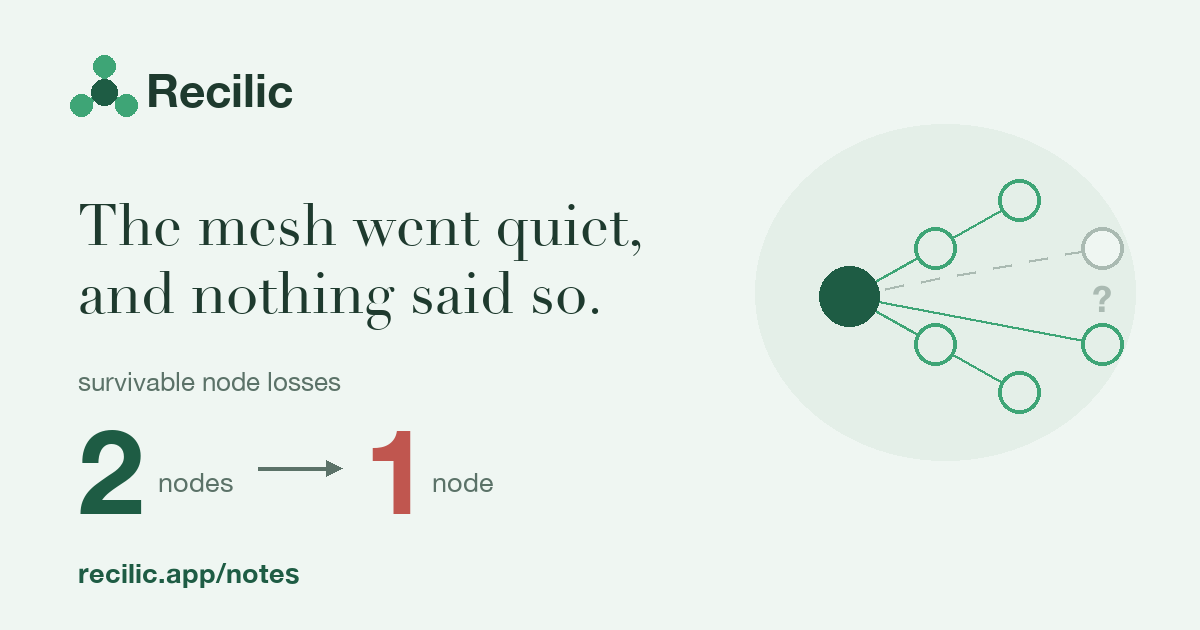
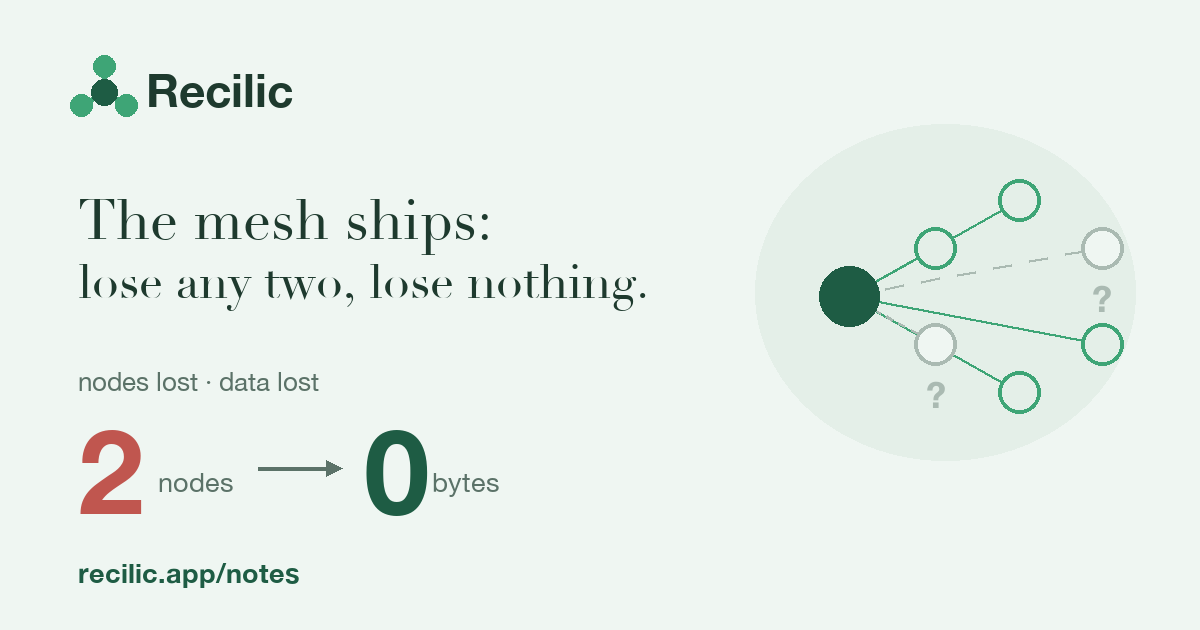
Retitle the 0.3.0 note: sell the release, not the incident
The note went out titled after its most dramatic section — the two days the mesh
ran at five-sixths strength with nothing saying so. But it ships alongside 0.3.0,
and the thing a reader can act on is the release: the mesh is available, and its
guarantee fits in one line. "Lose any two, lose nothing" is that line, in four
languages, and it also happens to be the exact property the incident section then
shows being watched over.

The OG card follows: two nodes dark instead of one, and the bottom row now reads
nodes lost 2 → data lost 0.

diff --git a/ja/notes/mesh-went-quiet/index.html b/ja/notes/mesh-went-quiet/index.html
@@ -3,9 +3,9 @@
 <head>
   <meta charset="utf-8">
   <meta name="viewport" content="width=device-width, initial-scale=1">
-  <title>メッシュが沈黙し、何も告げなかった · Recilic</title>
+  <title>メッシュ登場：どの2台が消えても、失うものはゼロ · Recilic</title>
   <meta name="description" content="mDNSスレッドが全ノードで同時に死に、2日間バックアップが成功と報告し続けた。Recilic 0.3.0はその沈黙を検知し結果を伝えるようになりました。">
-  <meta property="og:title" content="メッシュが沈黙し、何も告げなかった">
+  <meta property="og:title" content="メッシュ登場：どの2台が消えても、失うものはゼロ">
   <meta property="og:description" content="mDNSスレッドが全ノードで同時に死に、2日間バックアップが成功と報告し続けた。Recilic 0.3.0はその沈黙を検知し結果を伝えるようになりました。">
   <meta property="og:url" content="https://recilic.app/ja/notes/mesh-went-quiet/">
   <meta property="og:type" content="article">
@@ -96,7 +96,7 @@
   </nav>
   <main>
     <p class="crumb"><a href="/ja/notes/">← ノート</a></p>
-    <h1>メッシュが沈黙し、何も告げなかった</h1>
+    <h1>メッシュ登場：どの2台が消えても、失うものはゼロ</h1>
     <p class="meta">2026年8月16日 · Recilic開発ノート</p>
     <p class="lede">Recilic 0.3.0をリリースしました。暗号化されたシャードが、あなたが所有するMac群に5言語対応で分散されるようになりました。ここに至るまでに、メッシュが2日間6分の5の能力で動いていたこと——そしてその間のすべてのバックアップが成功と報告していたことに気づきました。</p>
     <p><img src="/notes/mesh-went-quiet/live-mesh-eight-nodes.png" alt="Recilicのライブメッシュ表示：1台のMacBookが7台のストレージノードに接続されている" style="width:100%;border-radius:14px;border:1px solid var(--border)"></p>

diff --git a/ko/notes/mesh-went-quiet/index.html b/ko/notes/mesh-went-quiet/index.html
@@ -3,9 +3,9 @@
 <head>
   <meta charset="utf-8">
   <meta name="viewport" content="width=device-width, initial-scale=1">
-  <title>메시가 조용해졌는데 아무도 말하지 않았습니다 · Recilic</title>
+  <title>메시 출시: 어느 두 대가 사라져도 잃는 것은 없습니다 · Recilic</title>
   <meta name="description" content="mDNS 스레드가 동시에 죽어 노드 5개가 이틀간 보이지 않았지만 백업은 계속 성공을 보고했습니다. Recilic 0.3.0의 수정 기록.">
-  <meta property="og:title" content="메시가 조용해졌는데 아무도 말하지 않았습니다">
+  <meta property="og:title" content="메시 출시: 어느 두 대가 사라져도 잃는 것은 없습니다">
   <meta property="og:description" content="mDNS 스레드가 동시에 죽어 노드 5개가 이틀간 보이지 않았지만 백업은 계속 성공을 보고했습니다. Recilic 0.3.0의 수정 기록.">
   <meta property="og:url" content="https://recilic.app/ko/notes/mesh-went-quiet/">
   <meta property="og:type" content="article">
@@ -96,7 +96,7 @@
   </nav>
   <main>
     <p class="crumb"><a href="/ko/notes/">← 노트</a></p>
-    <h1>메시가 조용해졌는데 아무도 말하지 않았습니다</h1>
+    <h1>메시 출시: 어느 두 대가 사라져도 잃는 것은 없습니다</h1>
     <p class="meta">2026년 8월 16일 · Recilic을 만들면서 남긴 기록</p>
     <p class="lede">Recilic 0.3.0이 출시되었습니다. 암호화된 샤드가 이제 사용자가 소유한 Mac들에 걸쳐 분산되며, 다섯 개 언어를 지원합니다. 여기까지 오면서 메시가 이틀 동안 6분의 5 수준으로만 동작하고 있었다는 사실을 발견했습니다 — 그 사이의 모든 백업은 성공이라고 보고했는데도.</p>
     <p><img src="/notes/mesh-went-quiet/live-mesh-eight-nodes.png" alt="Recilic의 라이브 메시 화면: MacBook 한 대가 7개의 스토리지 노드에 연결되어 있습니다" style="width:100%;border-radius:14px;border:1px solid var(--border)"></p>

diff --git a/zh/notes/mesh-went-quiet/index.html b/zh/notes/mesh-went-quiet/index.html
@@ -3,9 +3,9 @@
 <head>
   <meta charset="utf-8">
   <meta name="viewport" content="width=device-width, initial-scale=1">
-  <title>網格靜默了，而沒有任何東西說出口 · Recilic</title>
+  <title>網格上線：任兩台消失，備份完好 · Recilic</title>
   <meta name="description" content="網格上的探索執行緒同時死亡，五個節點從備份中消失兩天，而每次備份都回報成功。Recilic 0.3.0 修復了它並加入了後果通知。">
-  <meta property="og:title" content="網格靜默了，而沒有任何東西說出口">
+  <meta property="og:title" content="網格上線：任兩台消失，備份完好">
   <meta property="og:description" content="網格上的探索執行緒同時死亡，五個節點從備份中消失兩天，而每次備份都回報成功。Recilic 0.3.0 修復了它並加入了後果通知。">
   <meta property="og:url" content="https://recilic.app/zh/notes/mesh-went-quiet/">
   <meta property="og:type" content="article">
@@ -96,7 +96,7 @@
   </nav>
   <main>
     <p class="crumb"><a href="/zh/notes/">← 筆記</a></p>
-    <h1>網格靜默了，而沒有任何東西說出口</h1>
+    <h1>網格上線：任兩台消失，備份完好</h1>
     <p class="meta">2026 年 8 月 16 日 · 打造 Recilic 的筆記</p>
     <p class="lede">Recilic 0.3.0 已經發佈：你的加密分片現在可以散佈在你擁有的 Mac 之間，支援五種語言。走到這一步的過程中，我們發現網格已經以六分之五的能力運作了兩天——而這段期間的每一次備份都回報了成功。</p>
     <p><img src="/notes/mesh-went-quiet/live-mesh-eight-nodes.png" alt="Recilic 的即時網格檢視：一台 MacBook 連接到七個儲存節點" style="width:100%;border-radius:14px;border:1px solid var(--border)"></p>

diff --git a/notes/mesh-went-quiet/index.html b/notes/mesh-went-quiet/index.html
@@ -3,9 +3,9 @@
 <head>
   <meta charset="utf-8">
   <meta name="viewport" content="width=device-width, initial-scale=1">
-  <title>The mesh went quiet, and nothing said so · Recilic</title>
+  <title>The mesh ships: lose any two, lose nothing · Recilic</title>
   <meta name="description" content="Every node's discovery thread died in the same second. Five of six destinations left every backup for two days — and every backup said success.">
-  <meta property="og:title" content="The mesh went quiet, and nothing said so">
+  <meta property="og:title" content="The mesh ships: lose any two, lose nothing">
   <meta property="og:description" content="Every node's discovery thread died in the same second. Five of six destinations left every backup for two days — and every backup said success.">
   <meta property="og:url" content="https://recilic.app/notes/mesh-went-quiet/">
   <meta property="og:type" content="article">
@@ -96,7 +96,7 @@
   </nav>
   <main>
     <p class="crumb"><a href="/notes/">← Notes</a></p>
-    <h1>The mesh went quiet, and nothing said so</h1>
+    <h1>The mesh ships: lose any two, lose nothing</h1>
     <p class="meta">August 16, 2026 · Notes from building Recilic</p>
     <p class="lede">Recilic 0.3.0 is out: your encrypted shards now spread across the Macs you own, in five languages. Getting there meant finding out that the mesh had been running at five-sixths strength for two days — and that every backup in between had reported success.</p>
     <p><img src="/notes/mesh-went-quiet/live-mesh-eight-nodes.png" alt="Recilic's live mesh view: one MacBook connected to seven storage nodes" style="width:100%;border-radius:14px;border:1px solid var(--border)"></p>

diff --git a/ko/notes/index.html b/ko/notes/index.html
@@ -99,7 +99,7 @@
     <p class="meta">Recilic을 만들며 쓰는 설계 노트와 에세이.</p>
     <a class="note-item" href="/ko/notes/mesh-went-quiet/">
       <span class="date">2026년 8월 16일</span>
-      <h3>메시가 조용해졌는데 아무도 말하지 않았습니다</h3>
+      <h3>메시 출시: 어느 두 대가 사라져도 잃는 것은 없습니다</h3>
       <p>모든 노드의 탐색 스레드가 같은 순간에 죽었지만, 모든 백업은 계속 성공이라고 보고했습니다. 어깨를 으쓱하는 대신 출시한 것.</p>
     </a>
     <a class="note-item" href="/ko/notes/lan-line-rate/">

diff --git a/ja/notes/index.html b/ja/notes/index.html
@@ -99,7 +99,7 @@
     <p class="meta">Recilic 開発の設計ノートとエッセイ。</p>
     <a class="note-item" href="/ja/notes/mesh-went-quiet/">
       <span class="date">2026年8月16日</span>
-      <h3>メッシュが沈黙し、何も告げなかった</h3>
+      <h3>メッシュ登場：どの2台が消えても、失うものはゼロ</h3>
       <p>すべてのノードの探索スレッドが同じ秒に死に、それでもバックアップは成功と報告し続けました。肩をすくめる代わりに出荷したもの。</p>
     </a>
     <a class="note-item" href="/ja/notes/lan-line-rate/">

diff --git a/zh/notes/index.html b/zh/notes/index.html
@@ -99,7 +99,7 @@
     <p class="meta">Recilic 開發過程中的設計筆記與隨筆。</p>
     <a class="note-item" href="/zh/notes/mesh-went-quiet/">
       <span class="date">2026 年 8 月 16 日</span>
-      <h3>網格靜默了，而沒有任何東西說出口</h3>
+      <h3>網格上線：任兩台消失，備份完好</h3>
       <p>所有節點的探索執行緒在同一秒死亡，而每次備份都繼續回報成功。這次補上的不是聳肩。</p>
     </a>
     <a class="note-item" href="/zh/notes/lan-line-rate/">

diff --git a/notes/index.html b/notes/index.html
@@ -99,7 +99,7 @@
     <p class="meta">Design notes and essays from building Recilic.</p>
     <a class="note-item" href="/notes/mesh-went-quiet/">
       <span class="date">August 16, 2026</span>
-      <h3>The mesh went quiet, and nothing said so</h3>
+      <h3>The mesh ships: lose any two, lose nothing</h3>
       <p>Every node's discovery thread died in the same second, and every backup kept reporting success. What shipped instead of a shrug.</p>
     </a>
     <a class="note-item" href="/notes/lan-line-rate/">
